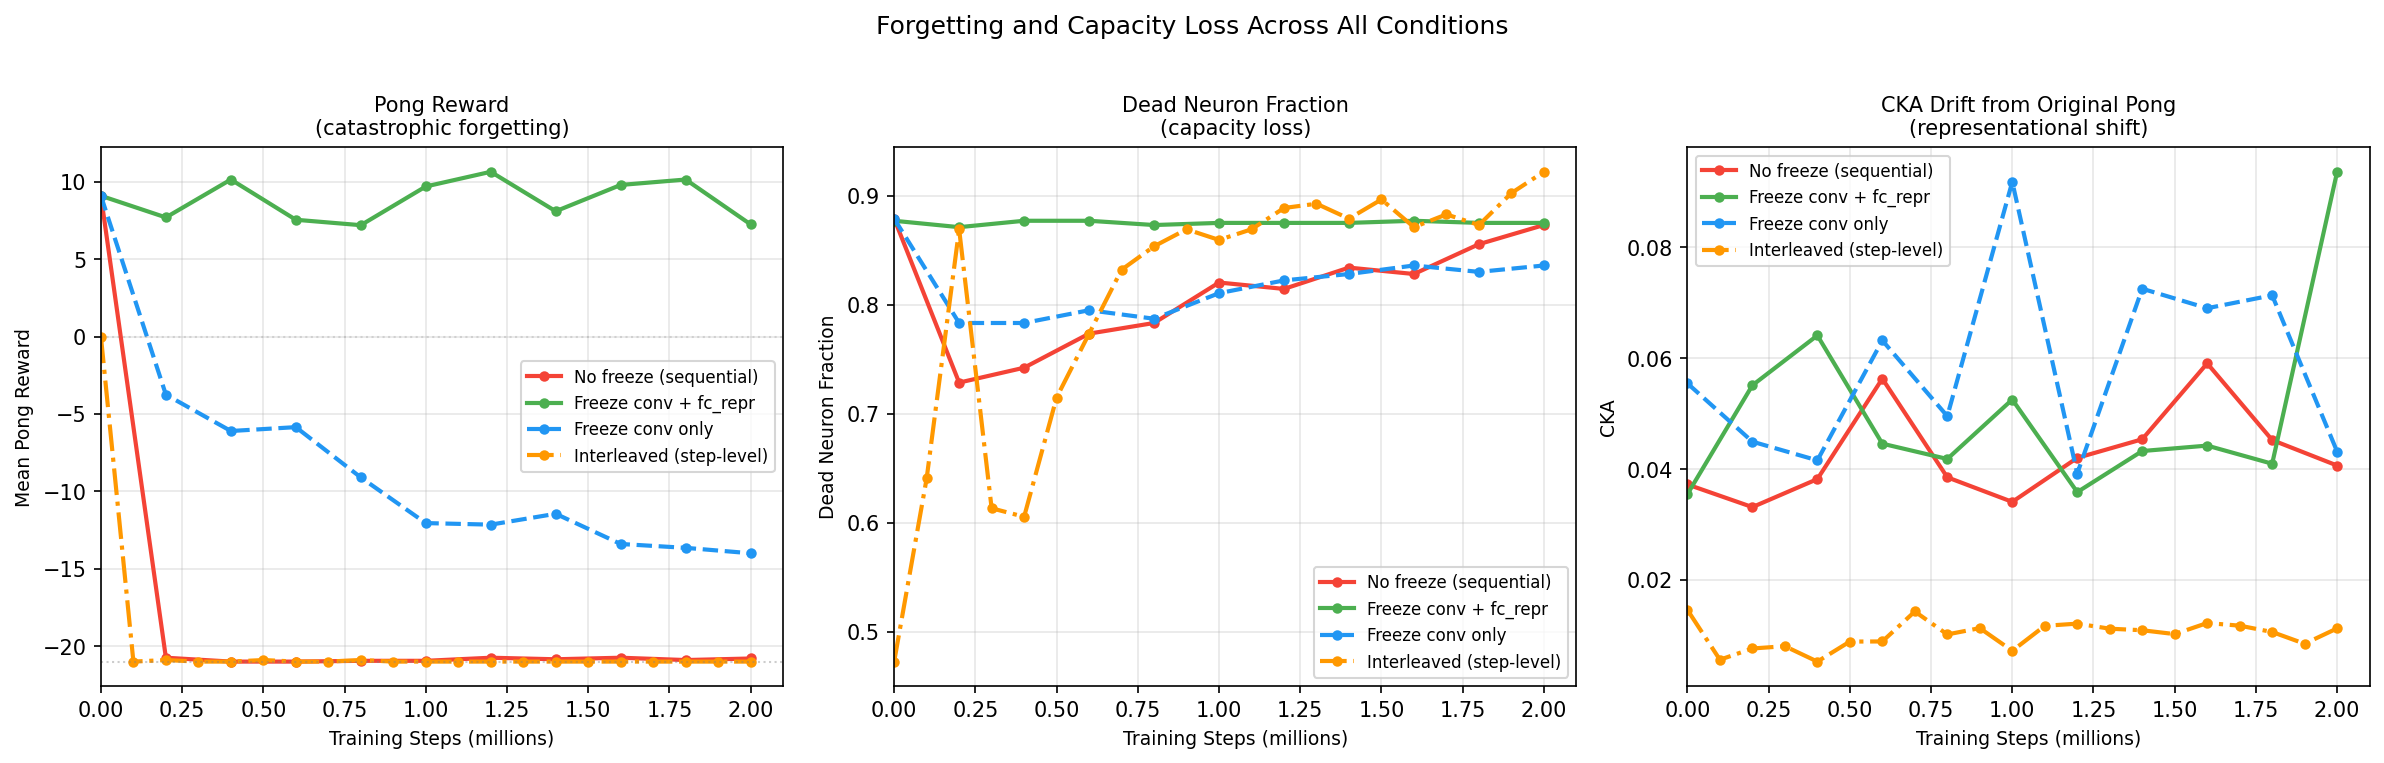
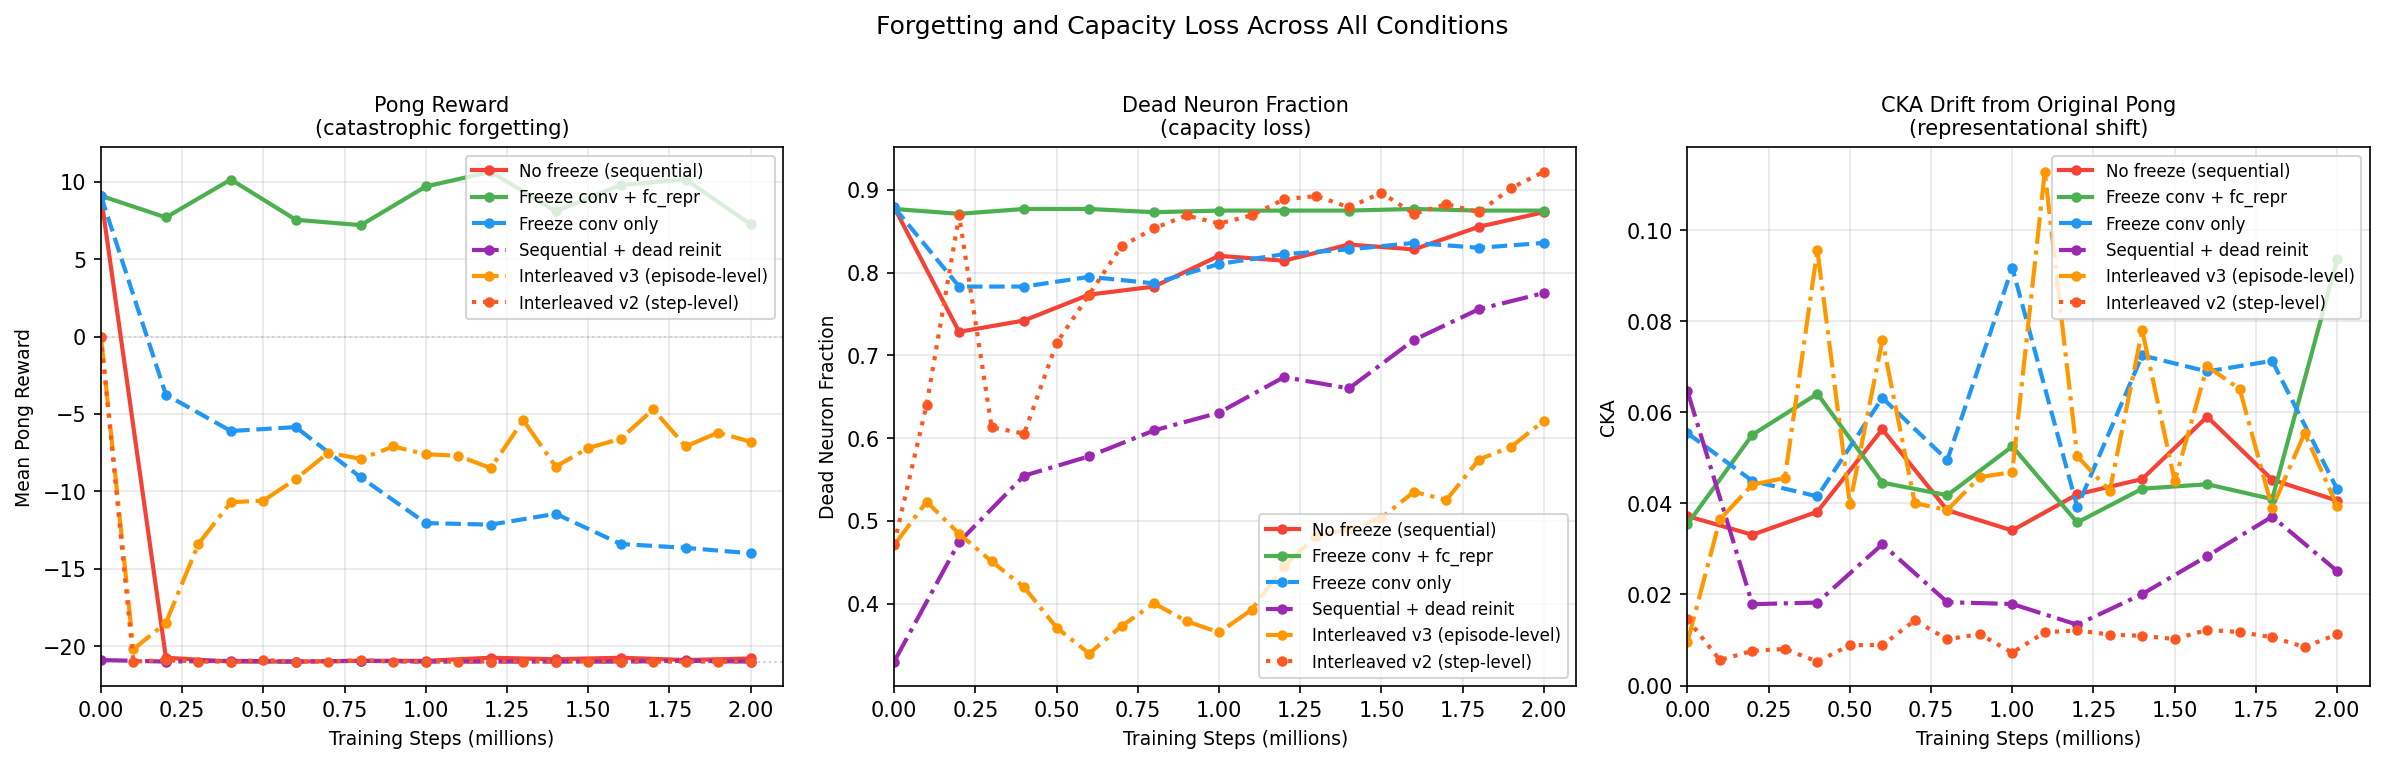
Update plots: add sequential_reinit and interleaved_v3 to all curves
plot_forgetting_curves.py:
- Add per-run dir key (runs now in separate result subdirs)
- Add sequential + dead reinit and interleaved v3 conditions
- Keep interleaved v2 for comparison

plot_interleaved_curves.py:
- Rewritten to compare v2 (step-level) vs v3 (episode-level)
- All three panels: Pong reward, Breakout reward, dead neurons

diff --git a/analysis/plot_interleaved_curves.py b/analysis/plot_interleaved_curves.py
@@ -1,8 +1,8 @@
 """
-Interleaved Training Curves
-=============================
-Plots Pong and Breakout reward over training for the interleaved v2
-(step-level alternation) experiment, compared against baselines.
+Interleaved Training Curves — v2 vs v3
+========================================
+Compares step-level (v2) and episode-level (v3) interleaved training.
+Three panels: Pong reward, Breakout reward, dead neuron fraction.
 """
 
 import os
@@ -12,76 +12,97 @@ import matplotlib
 matplotlib.use("Agg")
 import matplotlib.pyplot as plt
 
-LOG_DIR    = "results/logs"
 OUTPUT_DIR = "results/plots"
 
+RUNS = {
+    "v2 — step-level (1k steps)": {
+        "path":         "results/logs/dqn_interleaved_v2_seed42_scalemedium_metrics.csv",
+        "pong_col":     "pong_reward_mean10",
+        "breakout_col": "breakout_reward_mean10",
+        "dead_col":     "dead_neurons",
+        "pong_color":   "#1565C0",
+        "br_color":     "#B71C1C",
+        "dead_color":   "#6A1B9A",
+        "style":        "--",
+    },
+    "v3 — episode-level (joint buffer)": {
+        "path":         "results/interleaved_v3/logs/dqn_interleaved_v3_seed42_scalemedium_metrics.csv",
+        "pong_col":     "pong_reward_mean10",
+        "breakout_col": "breakout_reward_mean10",
+        "dead_col":     "dead_neurons",
+        "pong_color":   "#2196F3",
+        "br_color":     "#F44336",
+        "dead_color":   "#9C27B0",
+        "style":        "-",
+    },
+}
 
-def load_interleaved(path):
-    total, pong_r, breakout_r, dead = [], [], [], []
+
+def load_metrics(path, pong_col, breakout_col, dead_col):
+    steps, pong_r, br_r, dead = [], [], [], []
     with open(path) as f:
         for row in csv.DictReader(f):
-            total.append(int(float(row["total_step"])))
-            pong_r.append(float(row["pong_reward_mean10"]))
-            breakout_r.append(float(row["breakout_reward_mean10"]))
-            dead.append(float(row["dead_neurons"]))
+            steps.append(int(float(row["total_step"])))
+            pong_r.append(float(row[pong_col]))
+            br_r.append(float(row[breakout_col]))
+            dead.append(float(row[dead_col]))
     seen, out = set(), []
-    for s, p, b, d in zip(total, pong_r, breakout_r, dead):
+    for s, p, b, d in zip(steps, pong_r, br_r, dead):
         if s not in seen:
             seen.add(s)
             out.append((s, p, b, d))
     s, p, b, d = zip(*out)
-    return np.array(s)/1e6, list(p), list(b), list(d)
+    return np.array(s) / 1e6, list(p), list(b), list(d)
 
 
 def main():
     os.makedirs(OUTPUT_DIR, exist_ok=True)
 
-    path = os.path.join(LOG_DIR, "dqn_interleaved_v2_seed42_scalemedium_metrics.csv")
-    if not os.path.exists(path):
-        print(f"[skip] {path} not found")
-        return
+    fig, axes = plt.subplots(1, 3, figsize=(16, 5))
 
-    steps, pong_r, breakout_r, dead = load_interleaved(path)
+    for label, cfg in RUNS.items():
+        if not os.path.exists(cfg["path"]):
+            print(f"[skip] {cfg['path']} not found")
+            continue
+        steps, pong_r, br_r, dead = load_metrics(
+            cfg["path"], cfg["pong_col"], cfg["breakout_col"], cfg["dead_col"]
+        )
+        axes[0].plot(steps, pong_r,  color=cfg["pong_color"],
+                     linestyle=cfg["style"], linewidth=2,
+                     marker="o", markersize=4, label=label)
+        axes[1].plot(steps, br_r,    color=cfg["br_color"],
+                     linestyle=cfg["style"], linewidth=2,
+                     marker="o", markersize=4, label=label)
+        axes[2].plot(steps, dead,    color=cfg["dead_color"],
+                     linestyle=cfg["style"], linewidth=2,
+                     marker="o", markersize=4, label=label)
 
-    fig, axes = plt.subplots(1, 3, figsize=(15, 5))
-
-    # Panel 1: Pong reward
-    axes[0].plot(steps, pong_r, color="#2196F3", linewidth=2,
-                 marker="o", markersize=4, label="Interleaved Pong")
+    # Reference lines
     axes[0].axhline(-21, color="gray", linestyle=":", alpha=0.4, linewidth=1,
-                    label="Worst possible (-21)")
-    axes[0].axhline(7.5, color="#4CAF50", linestyle="--", alpha=0.5, linewidth=1,
-                    label="Standalone Pong baseline (~7.5)")
-    axes[0].set_title("Pong Reward During Interleaved Training", fontsize=10)
-    axes[0].set_xlabel("Total Training Steps (millions)", fontsize=9)
+                    label="Worst possible (−21)")
+    axes[0].axhline(7.5, color="#4CAF50", linestyle="--", alpha=0.4, linewidth=1,
+                    label="Standalone Pong (~7.5)")
+    axes[1].axhline(3.86, color="#4CAF50", linestyle="--", alpha=0.4, linewidth=1,
+                    label="Standalone Breakout (3.86)")
+
+    axes[0].set_title("Pong Reward\n(retention under joint training)", fontsize=10)
+    axes[1].set_title("Breakout Reward\n(learning under joint training)", fontsize=10)
+    axes[2].set_title("Dead Neuron Fraction\n(capacity loss in fc_repr)", fontsize=10)
+
+    for ax in axes:
+        ax.set_xlabel("Total Training Steps (millions)", fontsize=9)
+        ax.legend(fontsize=8)
+        ax.grid(True, alpha=0.3)
+        ax.set_xlim(left=0)
+
     axes[0].set_ylabel("Mean Pong Reward (last 10 eps)", fontsize=9)
-    axes[0].legend(fontsize=8)
-    axes[0].grid(True, alpha=0.3)
-
-    # Panel 2: Breakout reward
-    axes[1].plot(steps, breakout_r, color="#F44336", linewidth=2,
-                 marker="o", markersize=4, label="Interleaved Breakout")
-    axes[1].axhline(3.86, color="#4CAF50", linestyle="--", alpha=0.5, linewidth=1,
-                    label="Standalone Breakout baseline (3.86)")
-    axes[1].set_title("Breakout Reward During Interleaved Training", fontsize=10)
-    axes[1].set_xlabel("Total Training Steps (millions)", fontsize=9)
     axes[1].set_ylabel("Mean Breakout Reward (last 10 eps)", fontsize=9)
-    axes[1].legend(fontsize=8)
-    axes[1].grid(True, alpha=0.3)
-
-    # Panel 3: Dead neurons
-    axes[2].plot(steps, dead, color="#9C27B0", linewidth=2,
-                 marker="o", markersize=4, label="Dead neurons (interleaved)")
-    axes[2].set_title("Dead Neuron Fraction During Interleaved Training", fontsize=10)
-    axes[2].set_xlabel("Total Training Steps (millions)", fontsize=9)
     axes[2].set_ylabel("Dead Neuron Fraction", fontsize=9)
-    axes[2].legend(fontsize=8)
-    axes[2].grid(True, alpha=0.3)
     axes[2].set_ylim(0, 1)
 
     fig.suptitle(
-        "Interleaved Training (Step-Level Alternation, 1M steps per game)\n"
-        "Dashed lines show standalone baselines for comparison",
+        "Interleaved Training: Step-Level (v2) vs Episode-Level Joint Buffer (v3)\n"
+        "1M steps per game each",
         fontsize=11, y=1.02
     )
 
@@ -91,10 +112,17 @@ def main():
     plt.close(fig)
     print(f"[saved] {out}")
 
-    print(f"\nFinal values:")
-    print(f"  Pong reward:    {pong_r[-1]:.2f}  (baseline: ~7.5)")
-    print(f"  Breakout reward: {breakout_r[-1]:.2f}  (baseline: 3.86)")
-    print(f"  Dead neurons:   {dead[-1]:.3f}")
+    print("\nFinal values (last eval point):")
+    for label, cfg in RUNS.items():
+        if not os.path.exists(cfg["path"]):
+            continue
+        steps, pong_r, br_r, dead = load_metrics(
+            cfg["path"], cfg["pong_col"], cfg["breakout_col"], cfg["dead_col"]
+        )
+        print(f"  {label}")
+        print(f"    Pong:     {pong_r[0]:.1f} → {pong_r[-1]:.1f}")
+        print(f"    Breakout: {br_r[0]:.1f} → {br_r[-1]:.1f}")
+        print(f"    Dead:     {dead[0]:.3f} → {dead[-1]:.3f}")
 
 
 if __name__ == "__main__":

diff --git a/analysis/plot_forgetting_curves.py b/analysis/plot_forgetting_curves.py
@@ -12,12 +12,12 @@ import matplotlib
 matplotlib.use("Agg")
 import matplotlib.pyplot as plt
 
-LOG_DIR    = "results/logs"
 OUTPUT_DIR = "results/plots"
 
-# Each run specifies its log file and which columns to read
+# Each run specifies its directory, log file, and which columns to read
 RUNS = {
     "No freeze (sequential)": {
+        "dir":       "results/logs",
         "file":      "dqn_sequential_sequential_full_seed42_scalemedium_forgetting.csv",
         "step_col":  "breakout_step",
         "pong_col":  "pong_reward",
@@ -27,6 +27,7 @@ RUNS = {
         "style":     "-",
     },
     "Freeze conv + fc_repr": {
+        "dir":       "results/logs",
         "file":      "dqn_fixed_sequential_freeze_all_seed42_scalemedium_forgetting.csv",
         "step_col":  "breakout_step",
         "pong_col":  "pong_reward",
@@ -36,6 +37,7 @@ RUNS = {
         "style":     "-",
     },
     "Freeze conv only": {
+        "dir":       "results/logs",
         "file":      "dqn_fixed_sequential_freeze_conv_fixed_seed42_scalemedium_forgetting.csv",
         "step_col":  "breakout_step",
         "pong_col":  "pong_reward",
@@ -44,14 +46,35 @@ RUNS = {
         "color":     "#2196F3",
         "style":     "--",
     },
-    "Interleaved (step-level)": {
-        "file":      "dqn_interleaved_v2_seed42_scalemedium_metrics.csv",
+    "Sequential + dead reinit": {
+        "dir":       "results/sequential_reinit/logs",
+        "file":      "dqn_sequential_reinit_seed42_scalemedium_forgetting.csv",
+        "step_col":  "breakout_step",
+        "pong_col":  "pong_reward",
+        "dead_col":  "dead_neurons",
+        "cka_col":   "cka_drift",
+        "color":     "#9C27B0",
+        "style":     "-.",
+    },
+    "Interleaved v3 (episode-level)": {
+        "dir":       "results/interleaved_v3/logs",
+        "file":      "dqn_interleaved_v3_seed42_scalemedium_metrics.csv",
         "step_col":  "total_step",
         "pong_col":  "pong_reward_mean10",
         "dead_col":  "dead_neurons",
         "cka_col":   "cka_drift_from_pong",
         "color":     "#FF9800",
         "style":     "-.",
+    },
+    "Interleaved v2 (step-level)": {
+        "dir":       "results/logs",
+        "file":      "dqn_interleaved_v2_seed42_scalemedium_metrics.csv",
+        "step_col":  "total_step",
+        "pong_col":  "pong_reward_mean10",
+        "dead_col":  "dead_neurons",
+        "cka_col":   "cka_drift_from_pong",
+        "color":     "#FF5722",
+        "style":     ":",
     },
 }
 
@@ -87,7 +110,7 @@ def main():
     ylabels = ["Mean Pong Reward", "Dead Neuron Fraction", "CKA"]
 
     for label, cfg in RUNS.items():
-        path = os.path.join(LOG_DIR, cfg["file"])
+        path = os.path.join(cfg["dir"], cfg["file"])
         if not os.path.exists(path):
             print(f"[skip] {path} not found")
             continue
@@ -128,7 +151,7 @@ def main():
     # Summary table
     print("\nSummary (step 0 → final):")
     for label, cfg in RUNS.items():
-        path = os.path.join(LOG_DIR, cfg["file"])
+        path = os.path.join(cfg["dir"], cfg["file"])
         if not os.path.exists(path):
             continue
         steps, pong_r, dead, cka = load_run(
